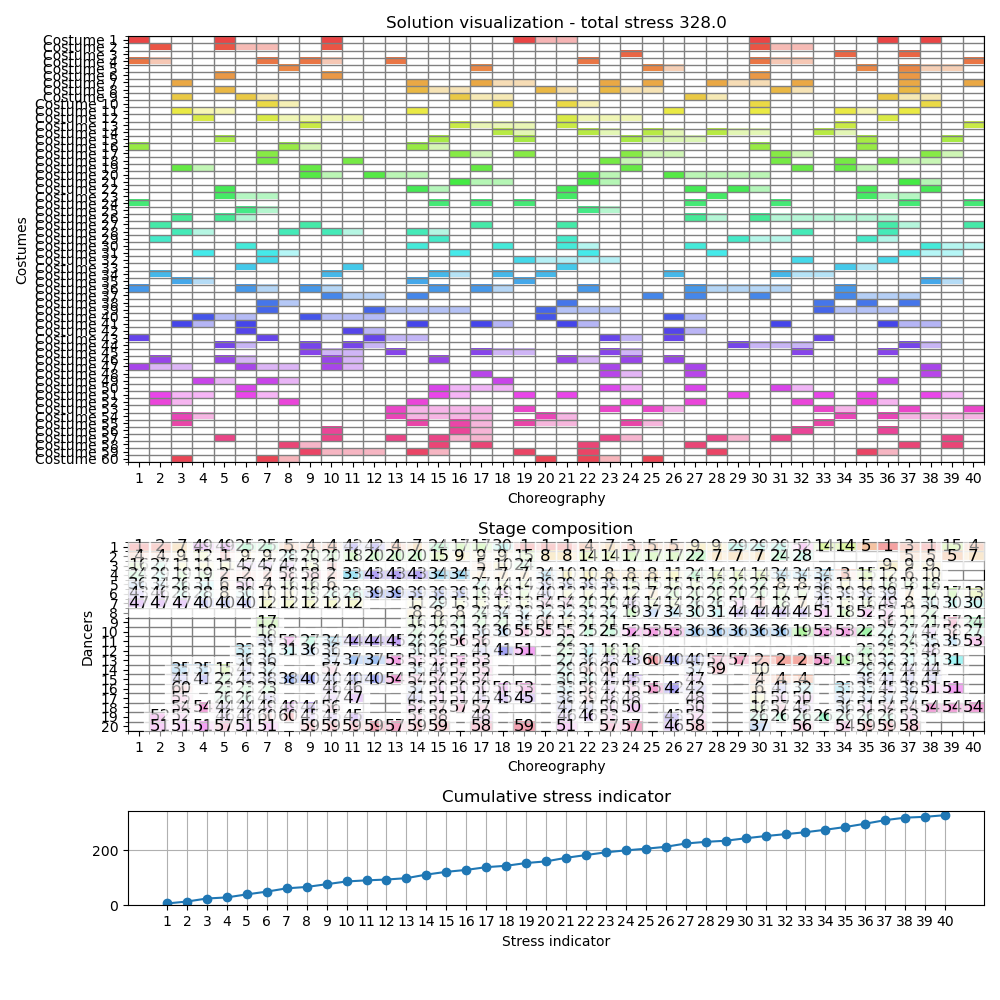
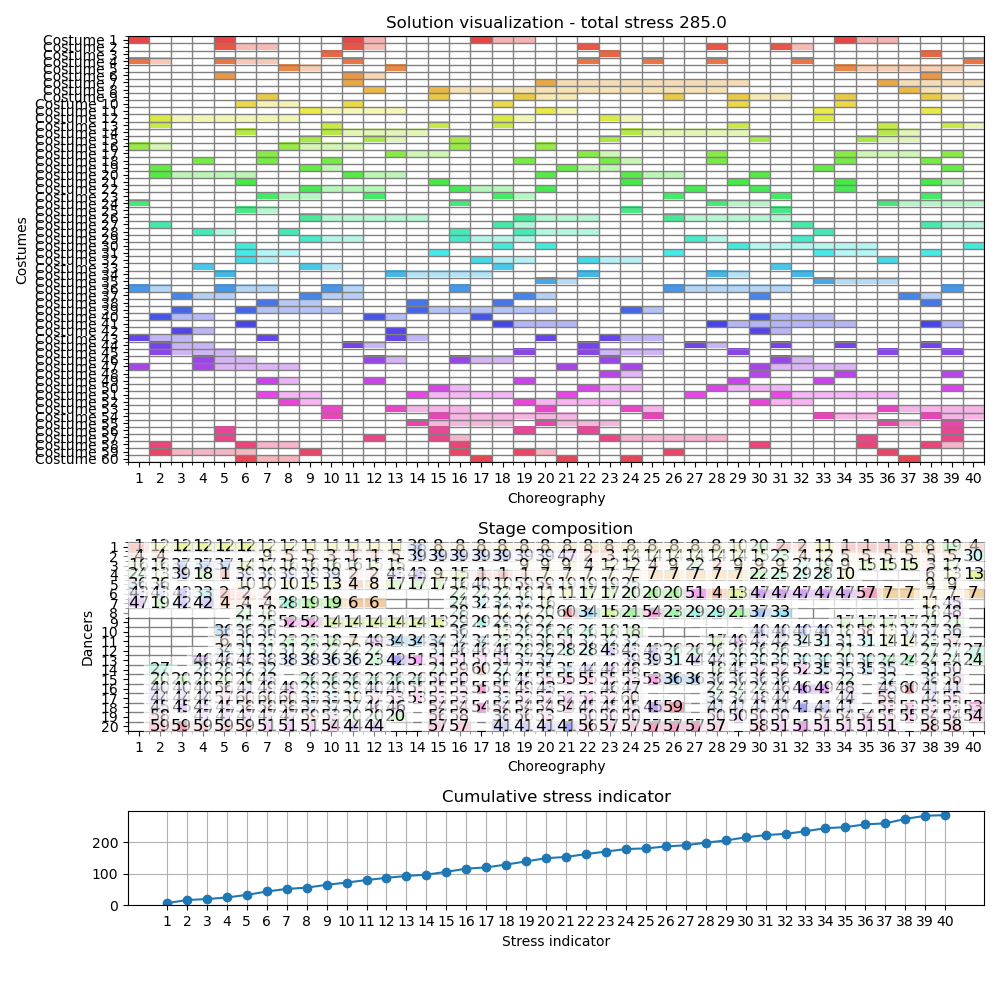
General VNS

diff --git a/solver_advanced.py b/solver_advanced.py
@@ -93,36 +93,40 @@ def solve(instance: Instance) -> Solution:
             operations_and_scores = [[s[0], instance.objective_score(Solution(s[1]))] # [encodage d'opération, score]
                                     for s in neighborhoods[k](sol)]
             
-            optimal_operation, optimal_score = random.choice(operations_and_scores)
+            optimal_operation, _ = random.choice(operations_and_scores)
 
+            new_sol = deepcopy(sol)
             if k == 0: # permutation des danses
                 dance1, dance2 = optimal_operation
-                new_sol = deepcopy(sol)
                 new_sol.raw[:, [dance2, dance1]] = new_sol.raw[:, [dance1, dance2]]
                 new_sol.choreographies_order[dance2], new_sol.choreographies_order[dance1] = new_sol.choreographies_order[dance1], new_sol.choreographies_order[dance2]
             else:      # costume en coulisses
                 row, col, flip = optimal_operation
-                new_sol = deepcopy(sol)
                 new_sol.raw[row, col] = 1 - flip
             
 
-            # Hill climbing avec dance_permutation_neighborhood jusqu'à convergence
-            hc_converged = False
-            while not hc_converged:
-                hc_operations_and_scores = [[s[0], instance.objective_score(Solution(s[1]))]
-                                            for s in dance_permutation_neighborhood(new_sol)]
+            # VND à partir de new_sol pour obtenir un minimum local pour tous les voisinages
+            kvnd = 0
+            while kvnd < 2:
+                vnd_operations_and_scores = [[s[0], instance.objective_score(Solution(s[1]))]
+                                            for s in neighborhoods[kvnd](new_sol)]
                 
-                best_neighbor_operation, best_neighbor_score = hc_operations_and_scores[np.argmin([o_s[1] for o_s in hc_operations_and_scores])]
+                vnd_optimal_operation, _ = vnd_operations_and_scores[np.argmin([o_s[1] for o_s in vnd_operations_and_scores])]
 
-                if best_neighbor_score < optimal_score:
-                    optimal_score = best_neighbor_score
-
-                    dance1, dance2 = best_neighbor_operation
-                    new_sol = deepcopy(new_sol)
-                    new_sol.raw[:, [dance2, dance1]] = new_sol.raw[:, [dance1, dance2]]
-                    new_sol.choreographies_order[dance2], new_sol.choreographies_order[dance1] = new_sol.choreographies_order[dance1], new_sol.choreographies_order[dance2]
+                vnd_new_sol = deepcopy(new_sol)
+                if kvnd == 0: # permutation des danses
+                    dance1, dance2 = vnd_optimal_operation
+                    vnd_new_sol.raw[:, [dance2, dance1]] = vnd_new_sol.raw[:, [dance1, dance2]]
+                    vnd_new_sol.choreographies_order[dance2], vnd_new_sol.choreographies_order[dance1] = vnd_new_sol.choreographies_order[dance1], vnd_new_sol.choreographies_order[dance2]
+                else:      # costume en coulisses
+                    row, col, flip = vnd_optimal_operation
+                    vnd_new_sol.raw[row, col] = 1 - flip
+                
+                if instance.objective_score(vnd_new_sol) < instance.objective_score(new_sol):
+                    new_sol = vnd_new_sol
+                    kvnd = 0
                 else:
-                    hc_converged = True
+                    kvnd += 1
             
 
             # s,k = neighborhood_change(s, s', k)
